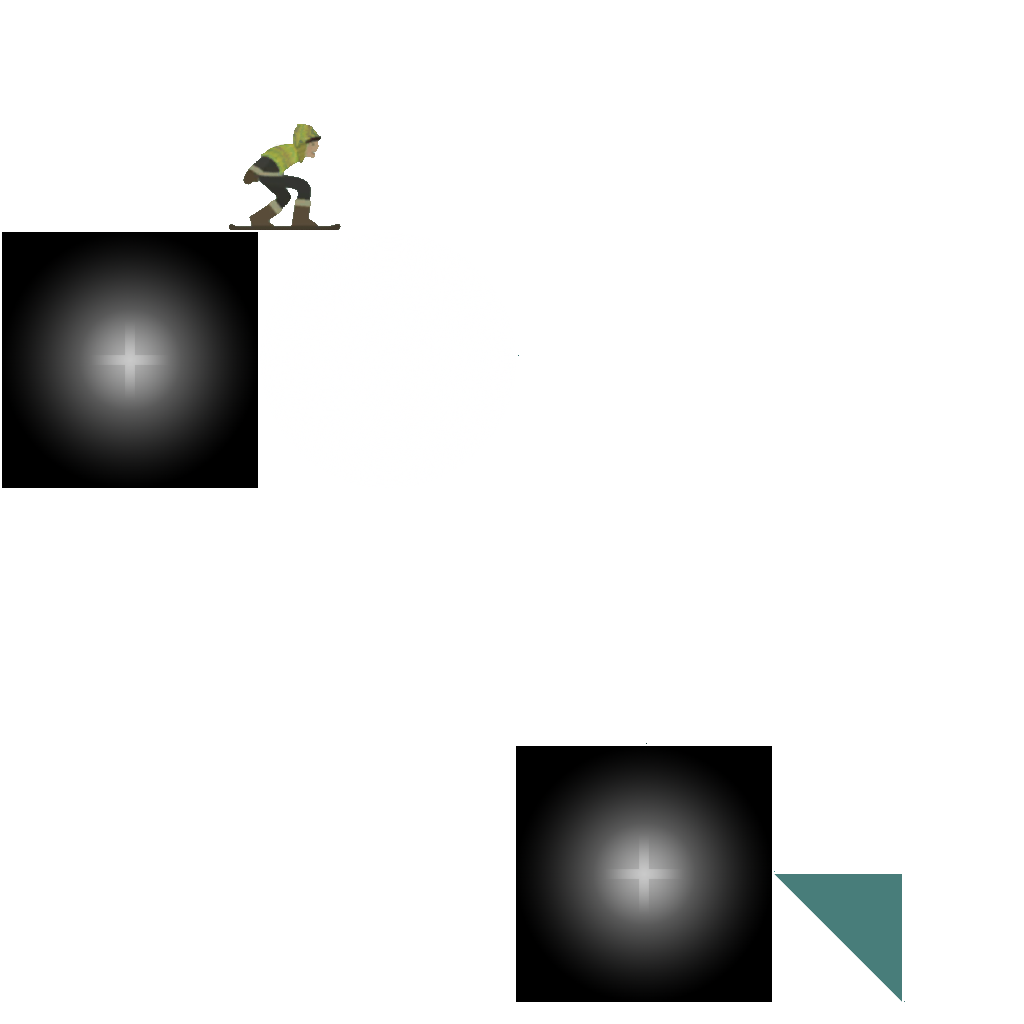
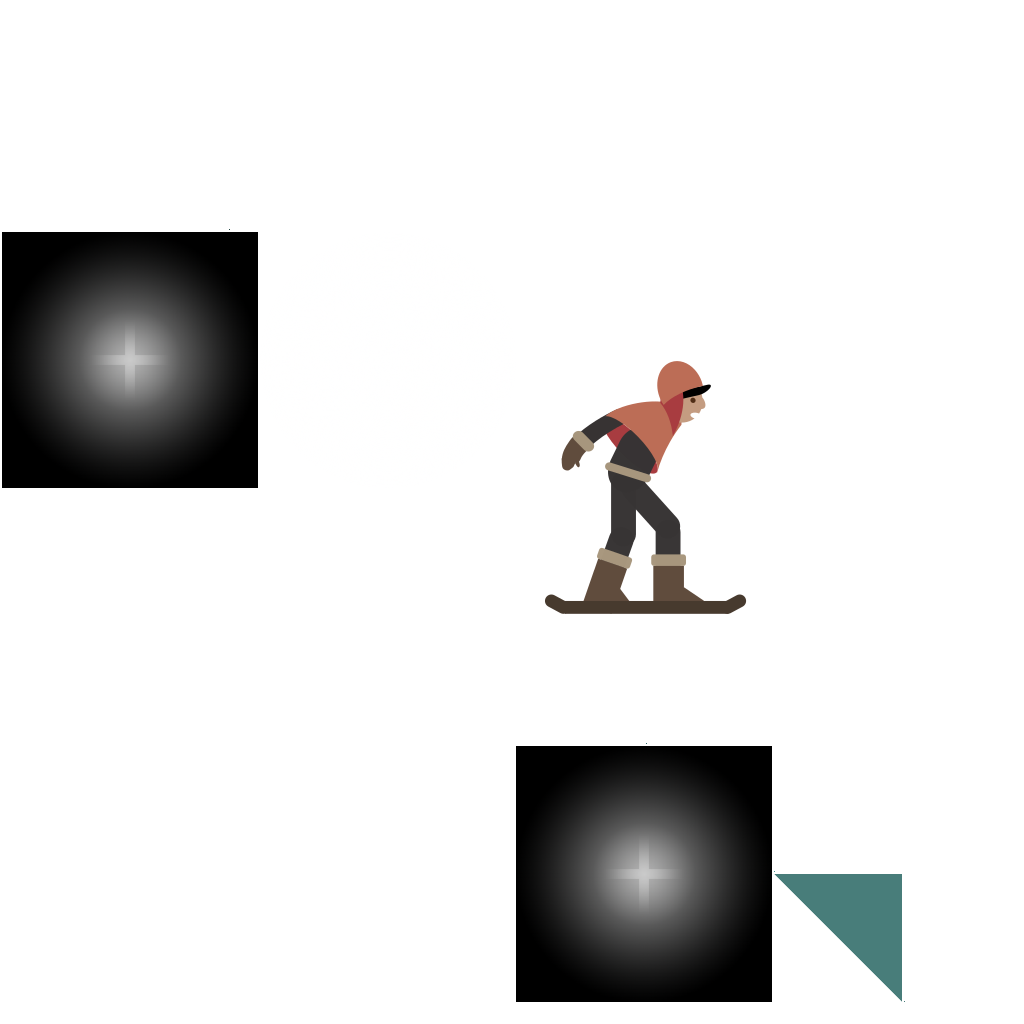
added self drawn performer

Changed region(s): [[0.5312, 0.3438, 0.75, 0.625], [0.2188, 0.125, 0.3125, 0.25]]

diff --git a/p/core/src/ardash/lato/GameScreen.java b/p/core/src/ardash/lato/GameScreen.java
@@ -90,7 +90,7 @@ public class GameScreen implements Screen {
 		backStage3d = new Stage3D(new ExtendViewport(WORLD_WIDTH, WORLD_HEIGHT, new Camera3D())); 
 
 //		backStage.setDebugAll(true);
-		stage.setDebugAll(true);
+//		stage.setDebugAll(true);
 //		frontStage.setDebugAll(true);
 //		stage3d.setDebug(true, true);
 //		Gdx.input.setInputProcessor(backStage);
